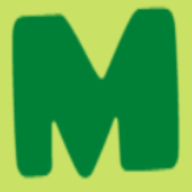
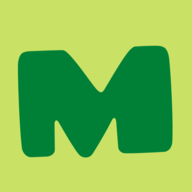
Added pwa functionality.

Changed region(s): [[0.0312, 0.0312, 0.9375, 0.9375]]

diff --git a/vite.config.js b/vite.config.js
@@ -1,11 +1,8 @@
 import { fileURLToPath, URL } from "node:url";
-
 import { defineConfig } from "vite";
 import vue from "@vitejs/plugin-vue";
-
 import { VitePWA } from "vite-plugin-pwa";
 
-// https://vitejs.dev/config/
 export default defineConfig({
   base: "",
   plugins: [
@@ -18,6 +15,27 @@ export default defineConfig({
       devOptions: {
         enabled: true,
       },
+      //manifest minimal requirements
+      includeAssets: ["favicon.ico", "apple-touch-icon.png", "masked-icon.svg"],
+      manifest: {
+        name: "MSA Rechner",
+        short_name: "MSARechner",
+        description: "Einfacher Rechner für den mittleren Schulabschluss an der Mittelschule.",
+        theme_color: "#ffffff",
+        icons: [
+          {
+            src: "android-chrome-192x192.png",
+            sizes: "192x192",
+            type: "image/png",
+          },
+          {
+            src: "android-chrome-512x512.png",
+            sizes: "512x512",
+            type: "image/png",
+          },
+        ],
+      },
+      //manifest minimal -> end
     }),
   ],
   resolve: {

diff --git a/index.html b/index.html
@@ -3,9 +3,18 @@
 
 <head>
   <meta charset="UTF-8">
-  <link rel="icon" href="/favicon.ico">
+
   <meta name="viewport" content="width=device-width, initial-scale=1.0, user-scalable=no">
   <title>MSA Rechner</title>
+  <meta name="description" content="Einfacher Rechner für den mittleren Schulabschluss an der Mittelschule.">
+  <!-- folgender Code wurde durch den Faficon Generator automatisch erzeugt. -->
+  <link rel="apple-touch-icon" sizes="180x180" href="/apple-touch-icon.png">
+  <link rel="icon" type="image/png" sizes="32x32" href="/favicon-32x32.png">
+  <link rel="icon" type="image/png" sizes="16x16" href="/favicon-16x16.png">
+  <link rel="mask-icon" href="/safari-pinned-tab.svg" color="#5bbad5">
+  <meta name="msapplication-TileColor" content="#2d89ef">
+  <meta name="theme-color" content="#ffffff">
+
 </head>
 
 <body>

diff --git a/src/components/ButtonInfo.vue b/src/components/ButtonInfo.vue
@@ -34,7 +34,7 @@ export default {
         <h3 style="font-weight: bolder;">Info MSA-Rechner</h3>
       </template>
       <template #body>
-        <p>Mit Hilfe des MSA-Rechners kannst du prüfen, ob du den Mittleren Schulabschluss bestanden hast.</p>
+        <p>Mit Hilfe des MSA-Rechners kannst du prüfen, ob du den mittleren Schulabschluss bestanden hast.</p>
         <br />
         <ul style="padding-left: 15px">
           <li><IconMuendlich></IconMuendlich> = mündliche Prüfung möglich.</li>          

diff --git a/src/App.vue b/src/App.vue
@@ -1,5 +1,11 @@
-<script setup>
+<script>
 import Rechner from "./components/Rechner.vue";
+
+export default {
+  components: {
+    Rechner,
+  },
+};
 </script>
 
 <template>
